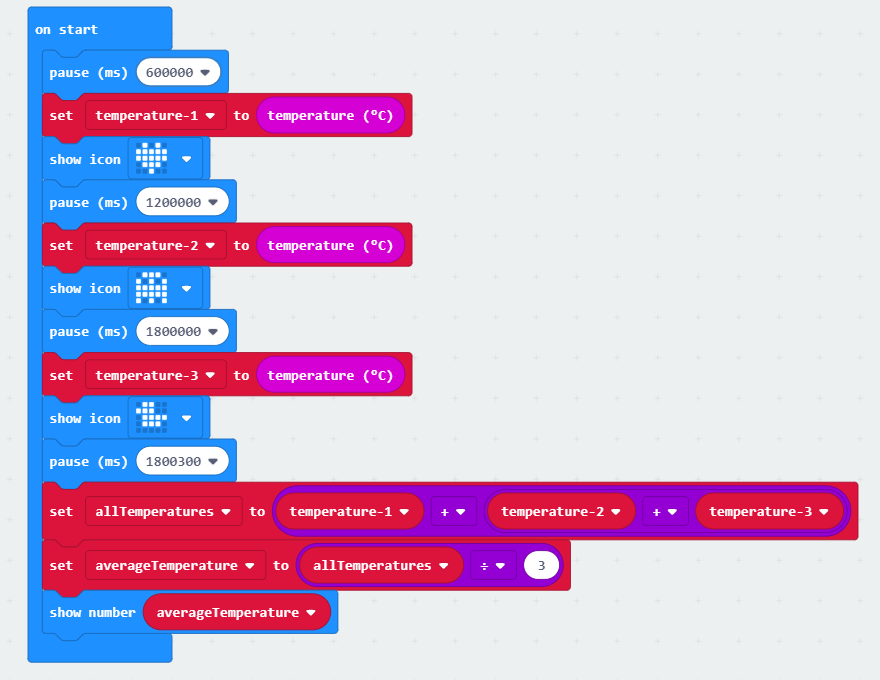
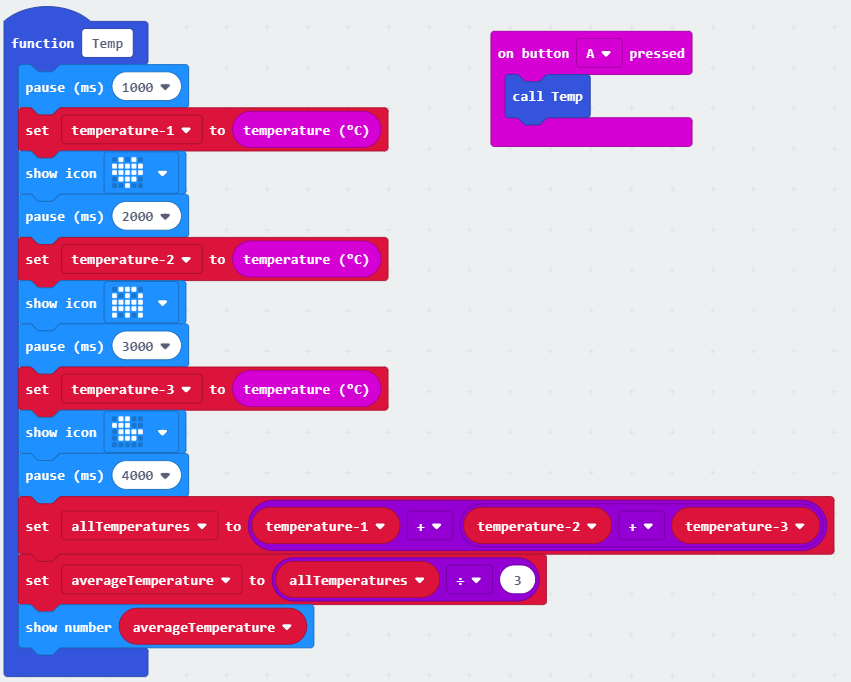
Add files via upload

diff --git a/design.html b/design.html
@@ -16,6 +16,6 @@
   <li><a href="eval.html">Evaluate</a></li>
 	</ul>
 	<h3>Design:</h3>
-	<p>The project will be presented on a Microbit. It will take the temperature every ten minutes. After the 3rd take of the temperature, the average of the three will show on the screen to tell the user what the average temperature was over the last 30 minutes. MakeCode will be used to create the program.</p>
+	<p>The project will be presented on a Microbit. Once the button is pressed, it will take the temperature every ten minutes. After the 3rd take of the temperature, the average of the three will show on the screen to tell the user what the average temperature was over the last 30 minutes. MakeCode will be used to create the program.</p>
 </body>
 </html>

diff --git a/plan.html b/plan.html
@@ -16,6 +16,6 @@
   <li><a href="eval.html">Evaluate</a></li>
 	</ul>
 	<h3>Plan:</h3>
-	<p>The plan for this project is to get the temperature of the room you are standing in. We used a micro bit that has the ability to show us how hot or cold it is in the room. we need to make the thermometer tell us how much temperature is in the room. </p>
+	<p>The plan for this project is to get the temperature of the room you are standing in. We used a micro bit that has the ability to show us how hot or cold it is in the room when a button is pressed. We need to make the thermometer tell us how much temperature is in the room. </p>
 </body>
 </html>

diff --git a/index.html b/index.html
@@ -16,6 +16,6 @@
   <li><a href="eval.html">Evaluate</a></li>
 	</ul>	
 	<h3>Investigation:</h3>
-	<p>A Microbit with a thermometer program that takes the average temperature over the course of 30 minutes.</p>
+	<p>A Microbit with a thermometer program that takes the average temperature over the course of 30 minutes when a button is pressed.</p>
 </body>
 </html>
